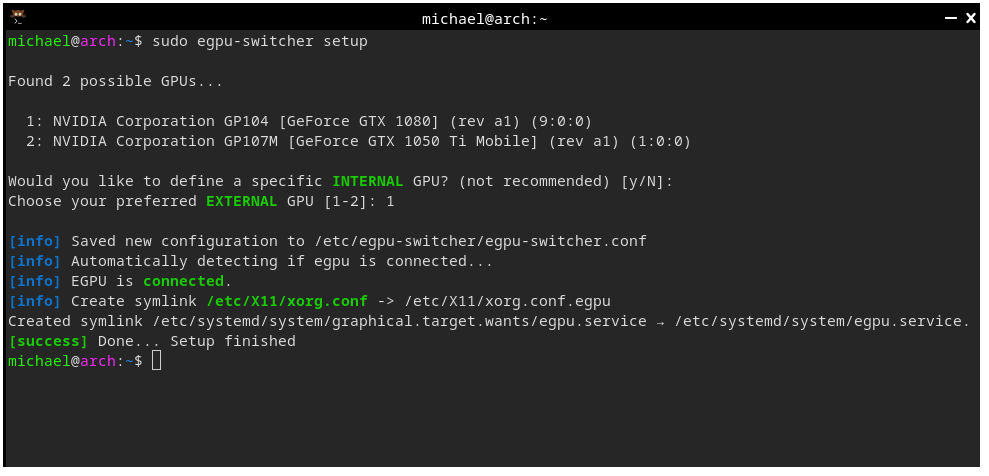
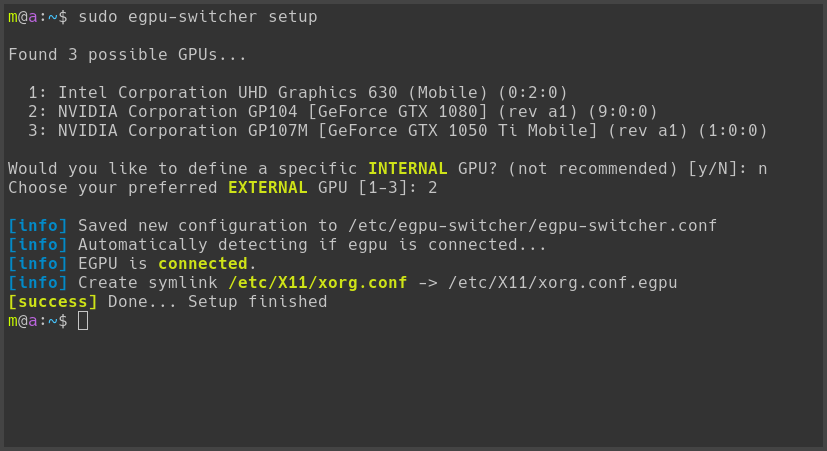
update screenshot, add some formatting to README

Changed region(s): [[0.0, 0.0, 1.0, 1.0], [0.8464, 0.3415, 0.9069, 0.4035], [0.8464, 0.2794, 0.9371, 0.3104]]

diff --git a/README.md b/README.md
@@ -1,7 +1,9 @@
 # egpu-switcher
-Distribution agnostic script that works with **NVIDIA** and **AMD** cards.
-
 > *For more information and user feedback, take a look at my [Thread](https://egpu.io/forums/thunderbolt-linux-setup/ubuntu-19-04-easy-to-use-setup-script-for-your-egpu/) over on egpu.io or open an issue on Github.*
+
+Distribution agnostic eGPU script that works with **NVIDIA** and **AMD** cards.
+
+---
 
 - [Description](#description)
 - [Screenshot](#screenshot)
